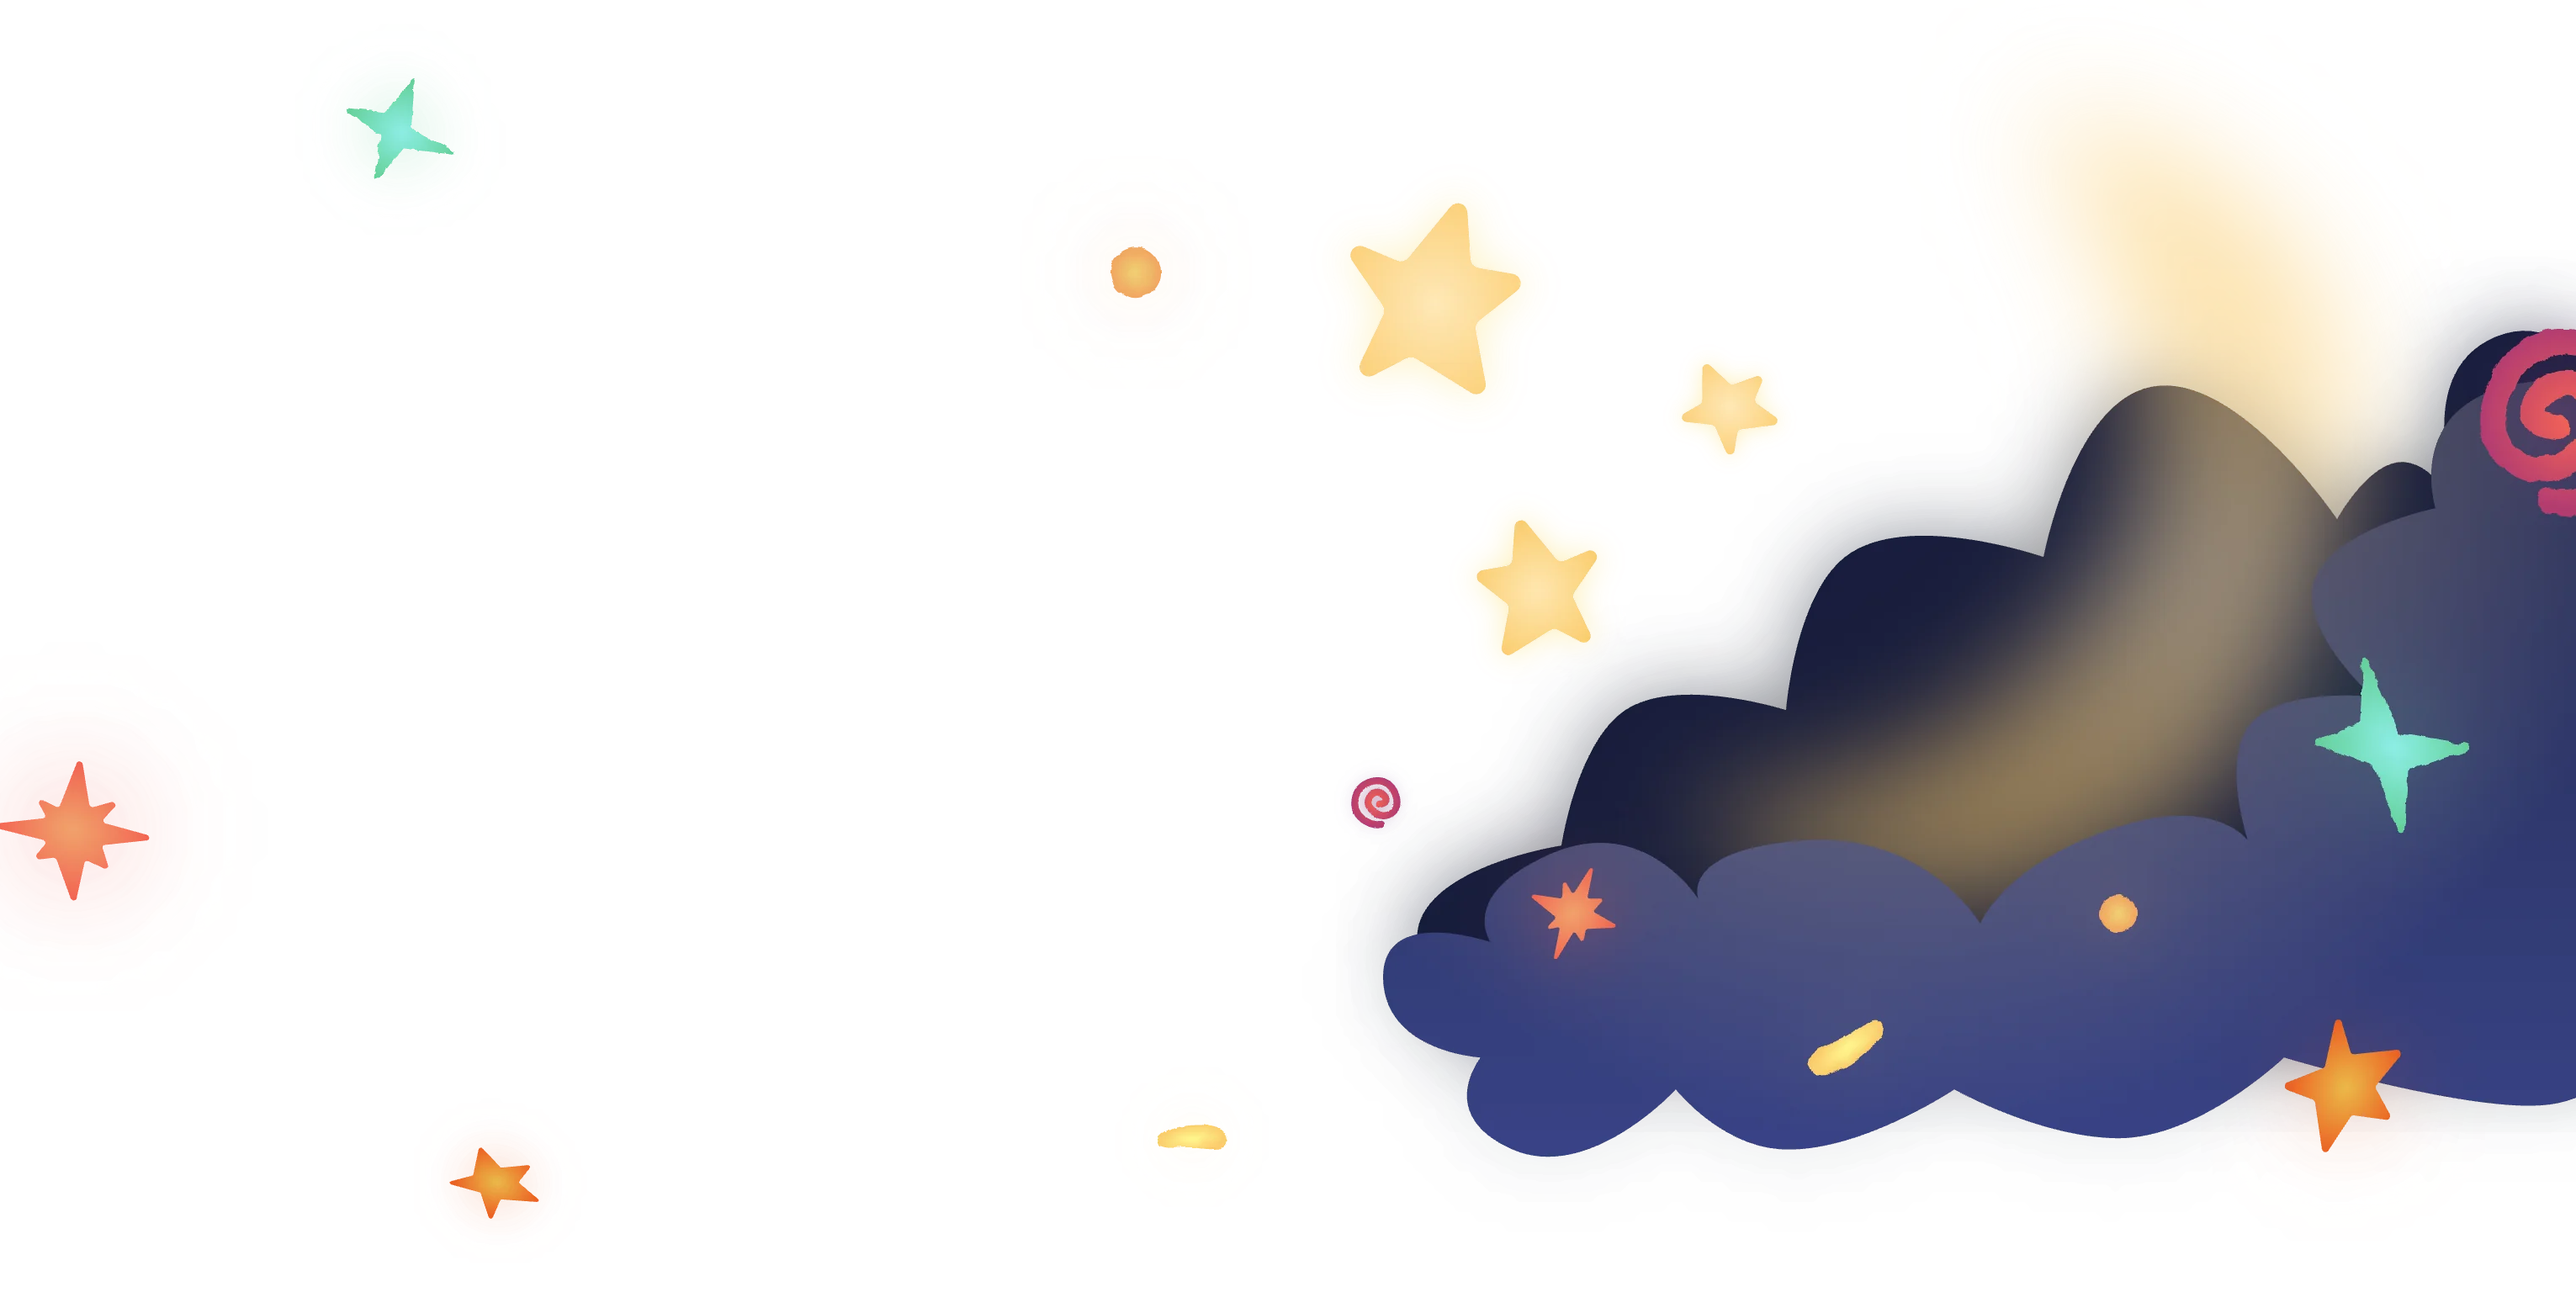
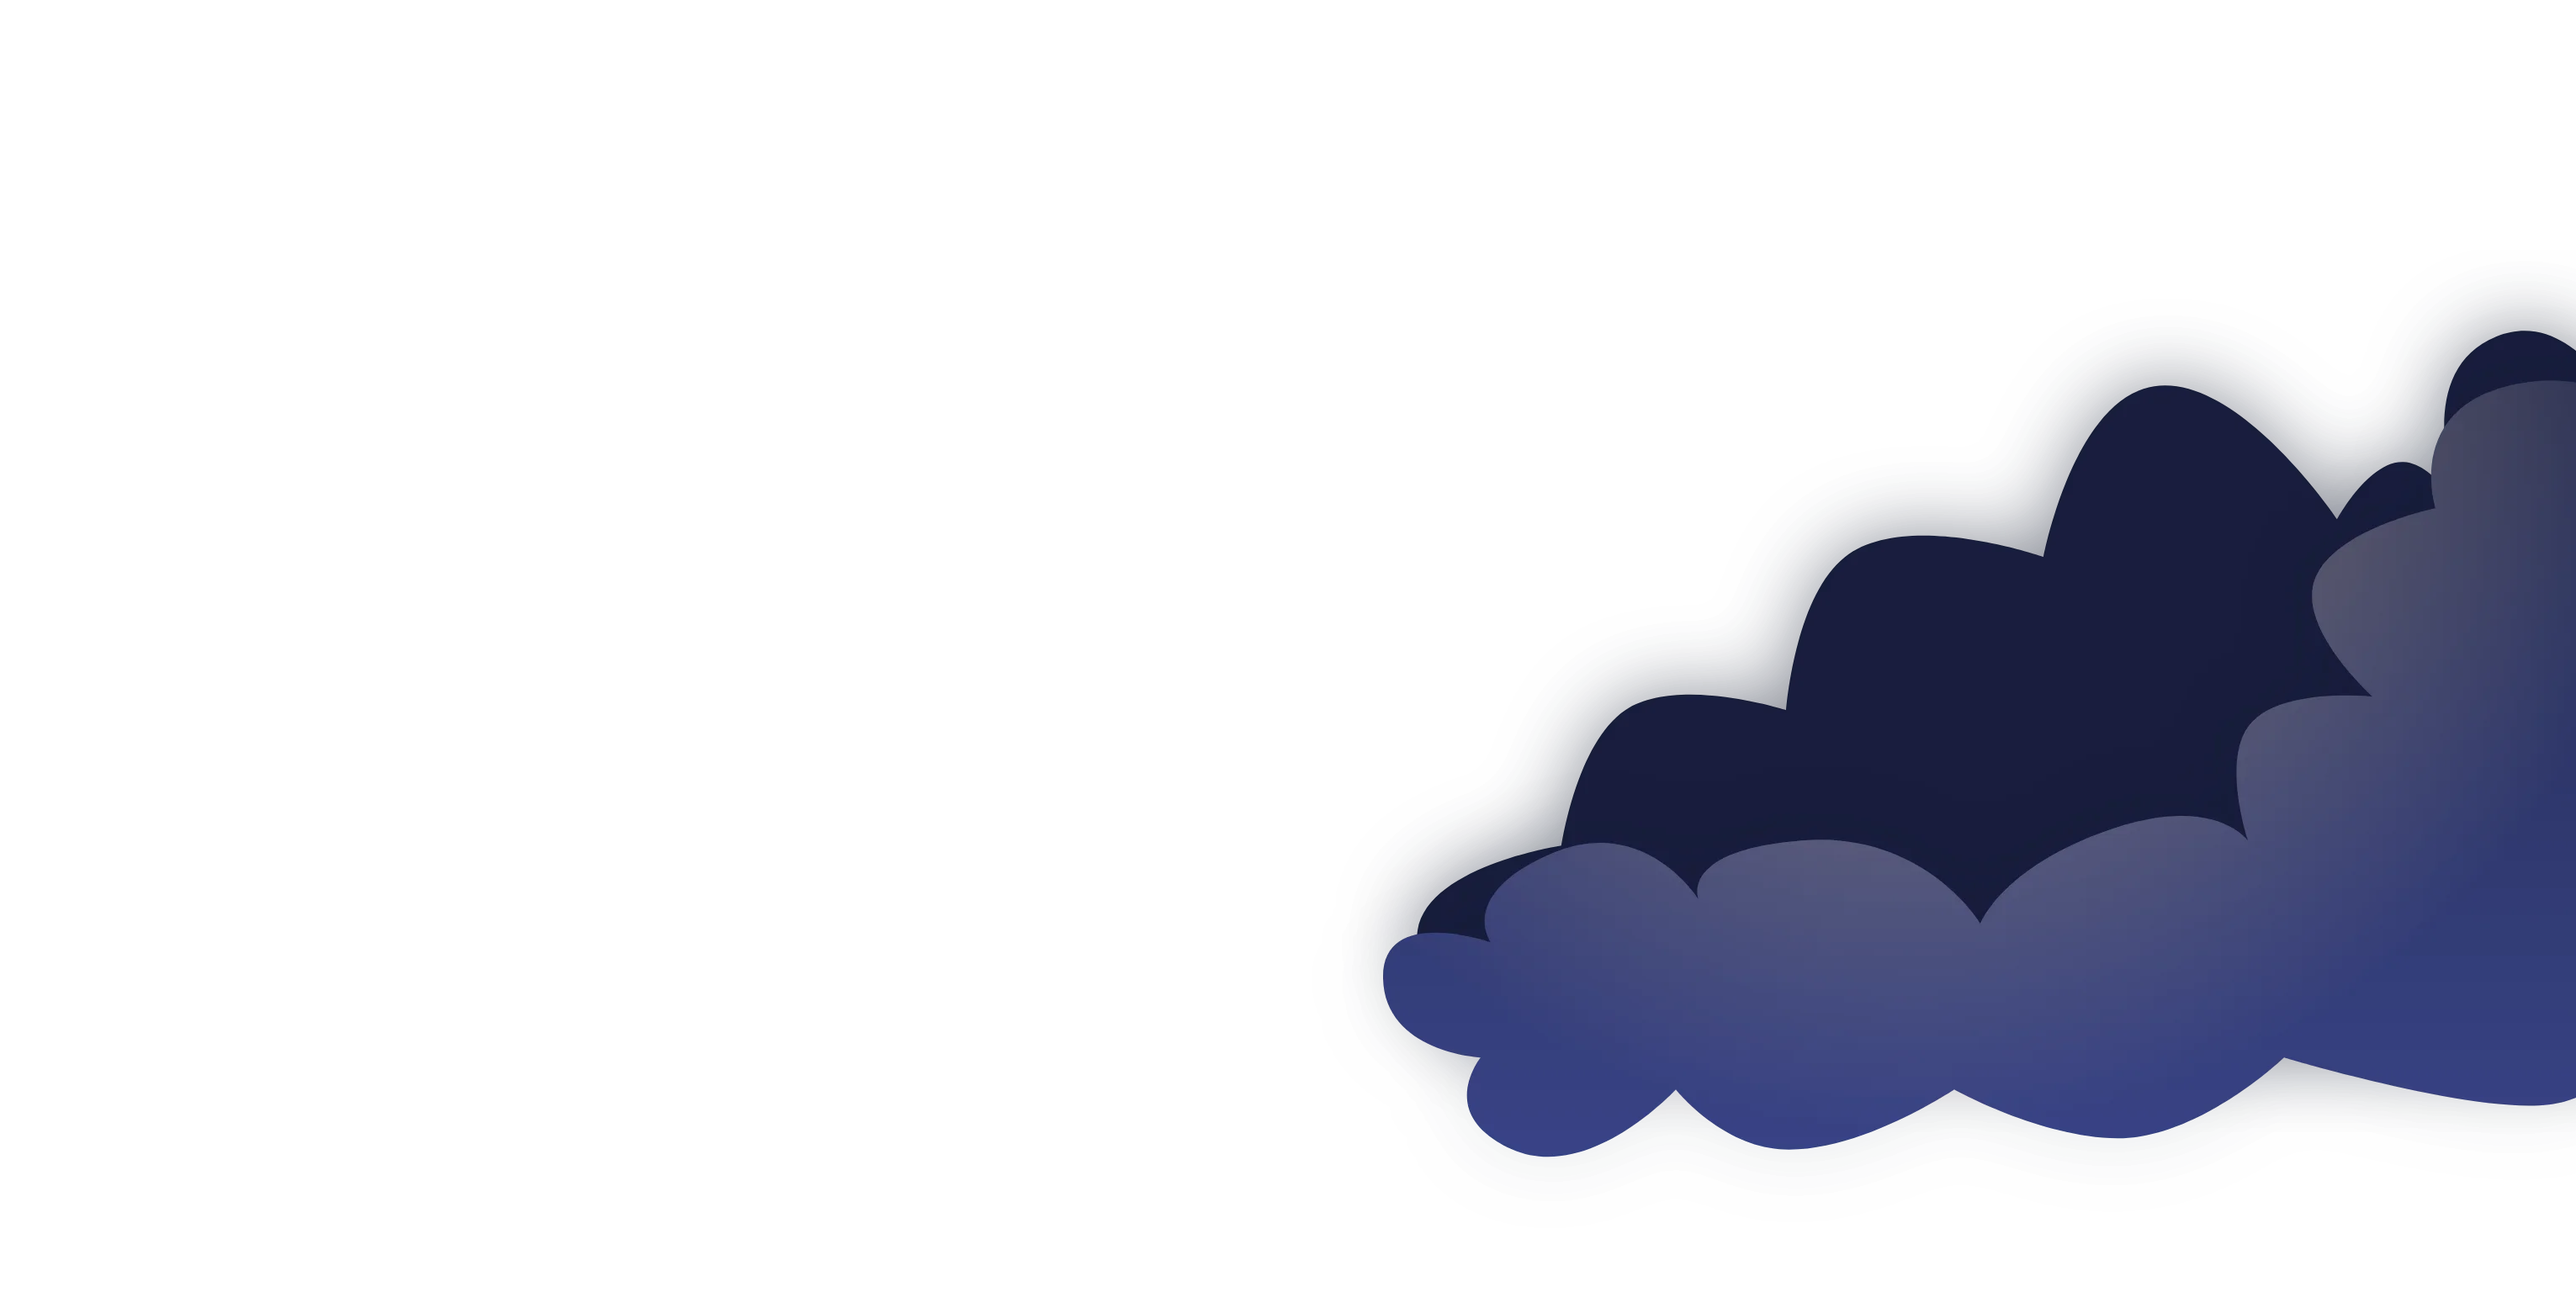
feat(about): stars drawn live over the night scene

diff --git a/src/components/about/about-stars.tsx b/src/components/about/about-stars.tsx
@@ -1,0 +1,62 @@
+import { cn } from "@/lib/utils";
+
+// cut out of the moon bear art w/ their glow, boxes are in art units
+const STARS = [
+  { n: 1, x: 768.55, y: 86.78, w: 169, h: 182 },
+  { n: 2, x: 850.73, y: 282.29, w: 125, h: 134 },
+  { n: 3, x: 977.93, y: 194.77, w: 100, h: 97 },
+  { n: 4, x: 1423.67, y: 145.03, w: 208, h: 212 },
+  { n: 5, x: 1302.61, y: 318.04, w: 238, h: 250 },
+  { n: 6, x: 854.74, y: 460.47, w: 161, h: 165 },
+  { n: 7, x: 1020.05, y: 552.29, w: 154, h: 141 },
+  { n: 8, x: 1291.62, y: 539.75, w: 202, h: 211 },
+  { n: 9, x: 1198.49, y: 482.6, w: 121, h: 121 },
+  { n: 10, x: 782.05, y: 440.91, w: 71, h: 73 },
+  { n: 11, x: 160.71, y: 1.3, w: 155, h: 151 },
+  { n: 12, x: -83.07, y: 371.6, w: 253, h: 245 },
+  { n: 13, x: 641.09, y: 622.06, w: 135, h: 108 },
+  { n: 14, x: 227.83, y: 642.79, w: 132, h: 121 },
+  { n: 15, x: 596.12, y: 83.23, w: 158, h: 158 },
+] as const;
+
+type AboutStarsProps = {
+  viewBox: string;
+  className?: string;
+};
+
+export const AboutStars = ({ viewBox, className }: AboutStarsProps) => {
+  const [minX, minY, width, height] = viewBox.split(/[\s,]+/).map(Number);
+  return (
+    <div
+      aria-hidden="true"
+      className={cn("pointer-events-none overflow-hidden", className)}
+    >
+      {STARS.map(({ n, x, y, w, h }, i) => {
+        const base = `/assets/about/star-${n}`;
+        const share = (w / width) * 100;
+        return (
+          // eslint-disable-next-line @next/next/no-img-element -- static export, needs a srcset
+          <img
+            key={n}
+            src={`${base}-${w}.webp`}
+            srcSet={`${base}-${w}.webp ${w}w, ${base}-${w * 2}.webp ${w * 2}w`}
+            sizes={`${share.toFixed(1)}vw`}
+            width={w}
+            height={h}
+            alt=""
+            loading="lazy"
+            decoding="async"
+            className="absolute h-auto max-w-none motion-safe:animate-float"
+            style={{
+              left: `${(((x - minX) / width) * 100).toFixed(2)}%`,
+              top: `${(((y - minY) / height) * 100).toFixed(2)}%`,
+              width: `${share.toFixed(2)}%`,
+              animationDuration: `${6 + (i % 4)}s`,
+              animationDelay: `-${((i * 1.3) % 7).toFixed(1)}s`,
+            }}
+          />
+        );
+      })}
+    </div>
+  );
+};

diff --git a/src/components/about/desktop-about.tsx b/src/components/about/desktop-about.tsx
@@ -2,7 +2,9 @@ import { Parallax } from "@/components/ui/parallax";
 import { ResponsiveArt } from "@/components/ui/responsive-art";
 import { WELCOME_PARAGRAPHS, WELCOME_TITLE } from "@/constants/about";
 
+import { AboutStars } from "./about-stars";
 import { HackathonFaq } from "./hackathon-faq";
+import { MOON_BEAR_VIEWBOX } from "./moon-bear-art";
 import { MoonBearFigure } from "./moon-bear-figure";
 
 // Sections are not stacking contexts, so these z-indexes order against the
@@ -27,8 +29,8 @@ export const DesktopAbout = () => (
 
     {/* What is a hackathon */}
     <div className="relative w-full aspect-[2.100228245]">
-      {/* Illustration: the night scene as a raster, with the moon and bear
-          drawn live on top of it so they can be clicked. The overlay is
+      {/* Illustration: the night scene as a raster, with its stars and the
+          moon and bear drawn live on top of it so they can move. The overlay is
           sized like the image (full width, its own aspect) rather than to
           this box, whose aspect is not the art's. */}
       <Parallax speed={0.15} className="absolute z-10 w-full h-full">
@@ -40,6 +42,10 @@ export const DesktopAbout = () => (
           sizes="100vw"
           media="(min-width: 768px)"
           className="block w-full h-auto"
+        />
+        <AboutStars
+          viewBox={MOON_BEAR_VIEWBOX}
+          className="absolute top-0 left-0 w-full aspect-[1531/768]"
         />
         <MoonBearFigure className="absolute top-0 left-0 w-full h-auto" />
       </Parallax>
